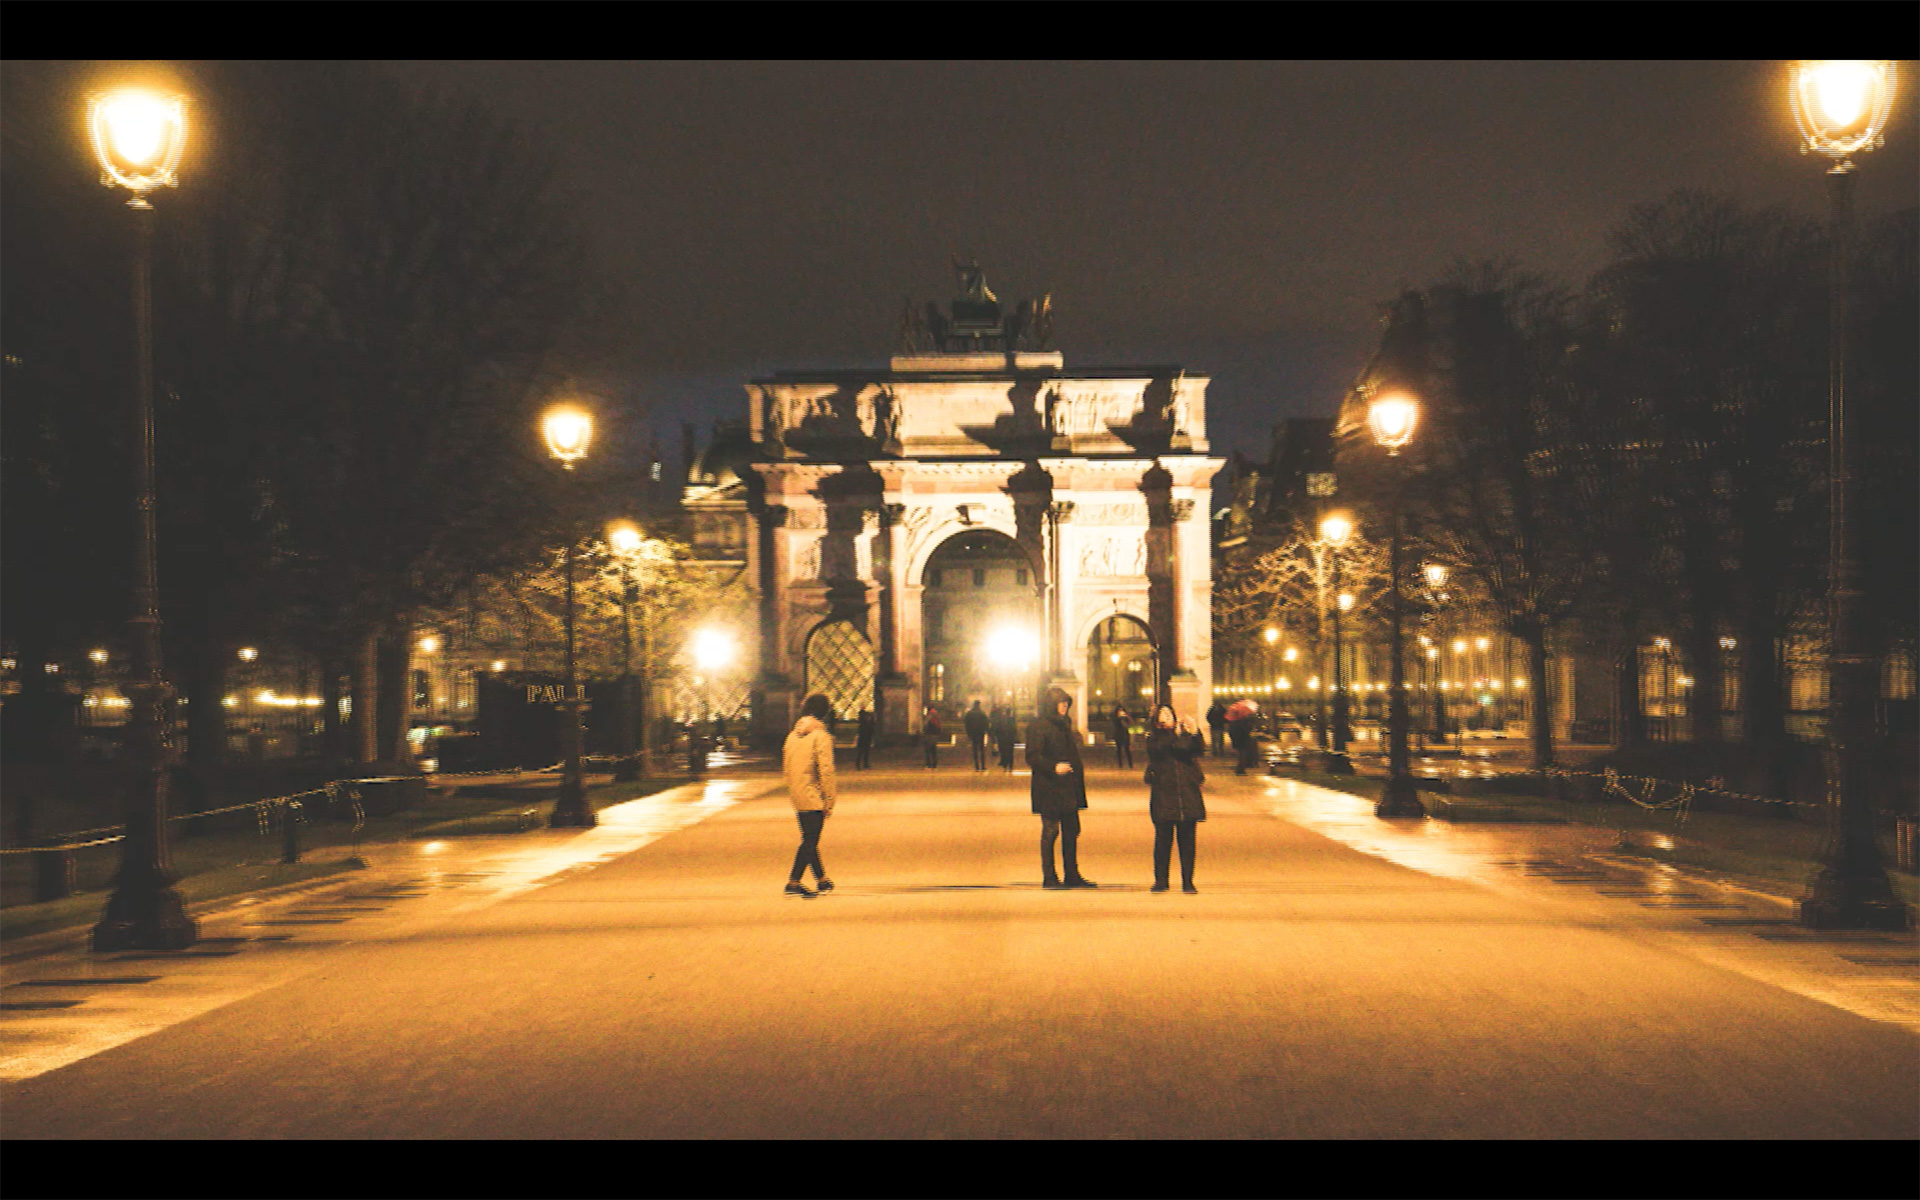
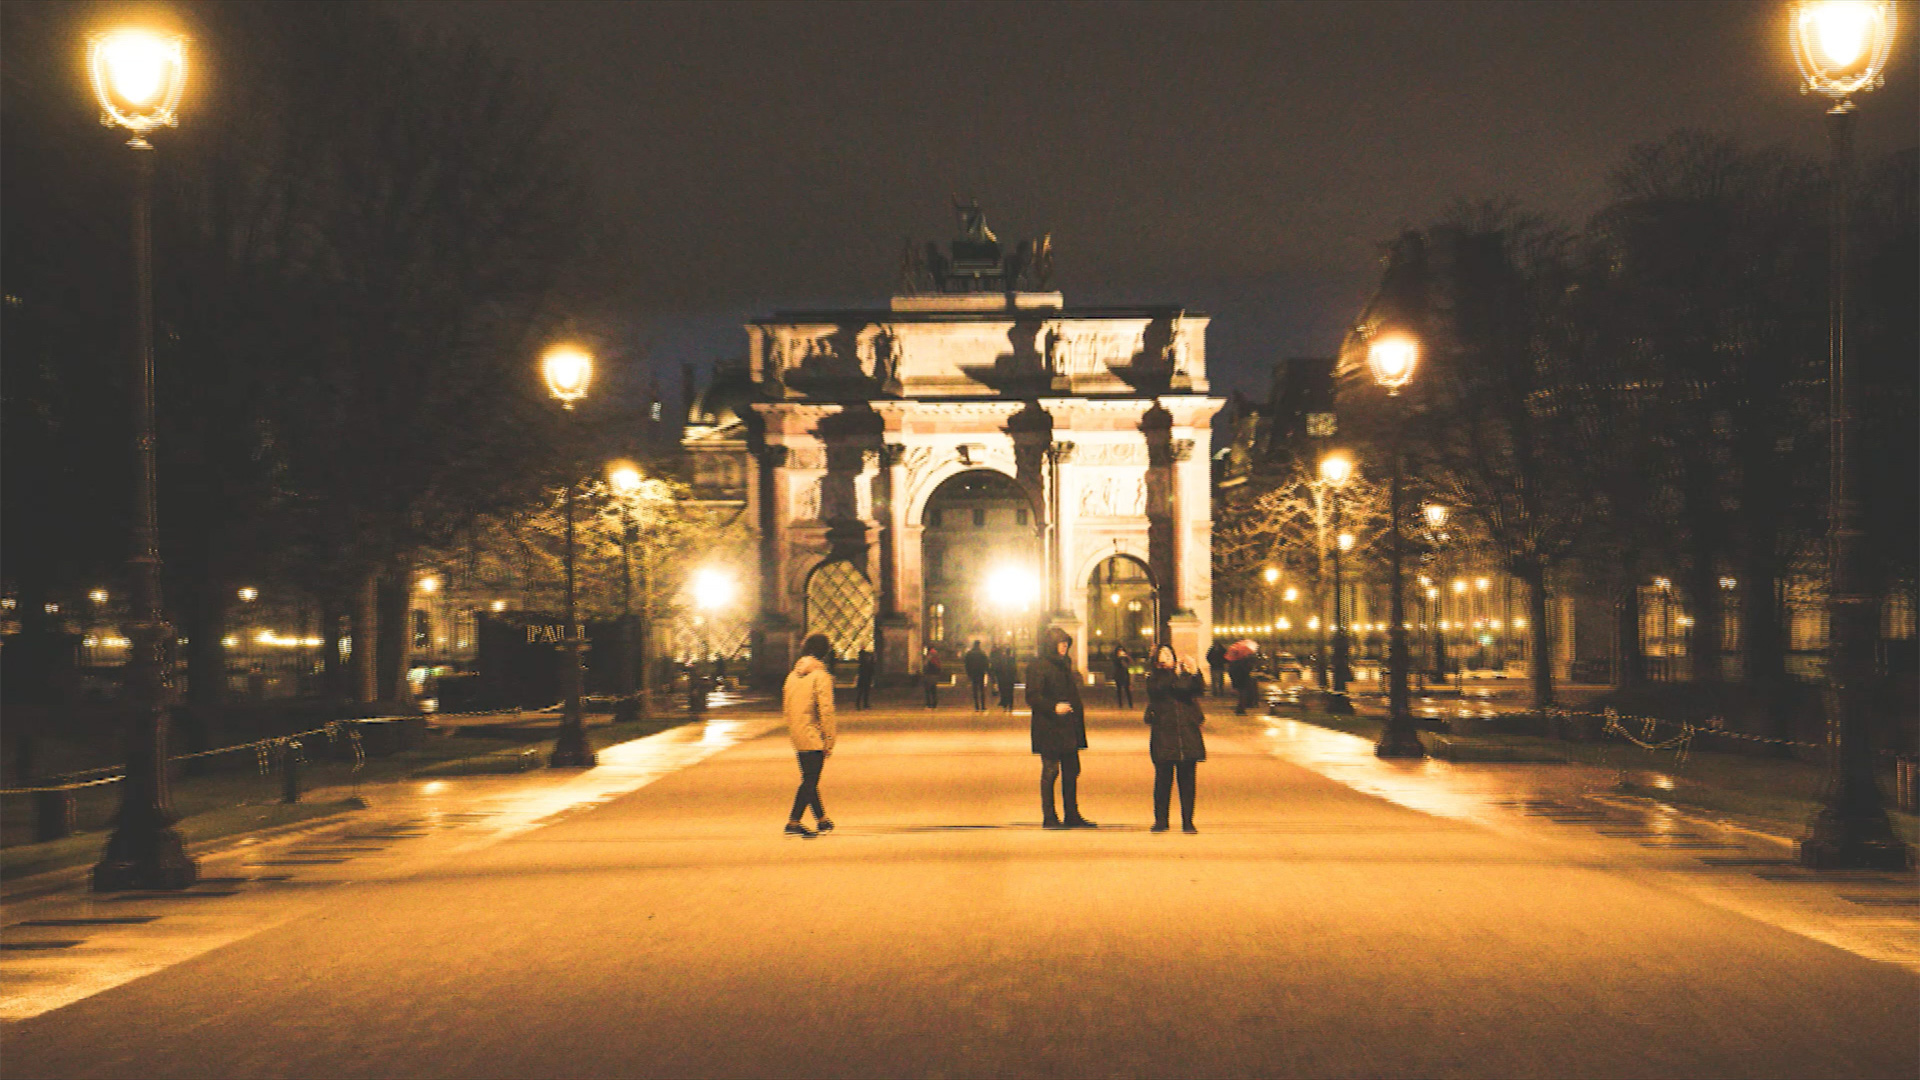
add video placeholder for mobile

diff --git a/_sass/pages/_home.scss b/_sass/pages/_home.scss
@@ -29,8 +29,9 @@ section.hero {
 
     body.home {
         height: 100vh;
-        background-image: url('/assets/images/dario-paris.jpg');
+        background-image: url('/assets/images/video_placeholder.jpg');
         background-size: cover;
+        background-position: center;
         background-repeat: no-repeat;
     }
 }
